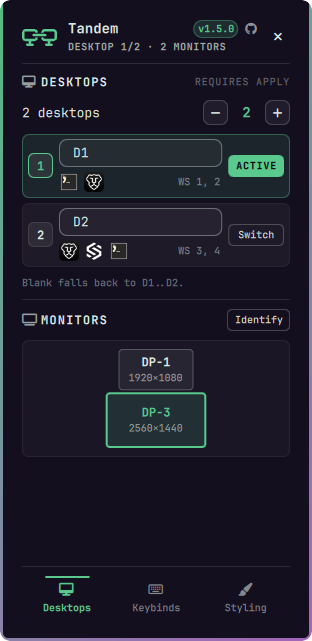
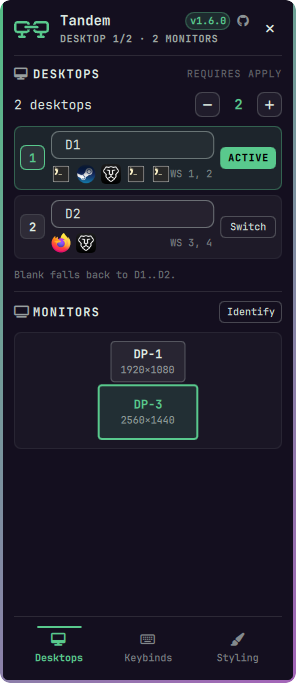
Document the accent colour; retake the screenshots

diff --git a/README.md b/README.md
@@ -104,6 +104,10 @@ everything else is a tint of the panel's own text colour.
 - **Styling** —
   - **Density** (**Compact**, **Normal** or **Roomy**) and **font size**
     (**Small**, **Normal** or **Large**).
+  - **Accent**: **Theme** (the default, the theme's own accent) or another
+    colour from the current theme's palette — blue, cyan, green, magenta,
+    yellow, red or orange, each shown in its real colour. Everything Tandem
+    highlights follows it. It is stored by name, so it follows a theme change.
   - **Bar indicator**: **Boxes** (each desktop in a rounded box, the current one
     filled with the accent) or **Text**; a switch for a thin accent-coloured
     line after the last desktop, setting it apart from the icons beside it; and
@@ -155,6 +159,7 @@ Settings.qml      the settings panel
 TandemIcon.qml    the two-monitor bar icon
 DesktopPopup.qml  the pager popup shown after a switch
 WindowIcons.qml   what is open on each desktop, and its app icons
+TandemAccent.qml  the highlight colour: theme accent or a palette colour
 body.lua          the logic, hand-maintained
 tandem-apply      generates tandem.lua from settings, installs the loader
 tandem-setup      gum wizard; writes settings, then calls tandem-apply
@@ -195,6 +200,7 @@ bar hands a widget every key on its entry except `id`:
   "divider":  false,
   "windowIcons": false,
   "clickToSwitch": true,
+  "accent": "theme",
   "popup": false }
 ```
 
@@ -220,6 +226,10 @@ bar hands a widget every key on its entry except `id`:
   `roomy` (`comfortable` is still read as `roomy`), and `small`, `normal` or
   `large`. They change nothing in Hyprland or the bar.
 - `popup` — show the pager popup after a desktop switch. Off by default.
+- `accent` — the colour Tandem highlights with: `theme` (the default) or one of
+  `blue`, `cyan`, `green`, `magenta`, `yellow`, `red`, `orange`, taken from the
+  current theme's palette. Falls back to the theme accent where the theme has
+  no such colour.
 - `indicator` — how the bar shows the desktops: `boxes` (the default) or
   `text`.
 - `divider` — draw a thin line after the last desktop in the bar. Off by
@@ -228,7 +238,7 @@ bar hands a widget every key on its entry except `id`:
   bar. Off by default.
 - `clickToSwitch` — clicking a desktop in the bar goes to it. On by default.
 
-`labels`, `mode`, `density`, `fontSize`, `popup`, `indicator`, `divider`, `windowIcons` and `clickToSwitch` are display settings that
+`labels`, `mode`, `density`, `fontSize`, `popup`, `indicator`, `divider`, `windowIcons`, `clickToSwitch` and `accent` are display settings that
 the panel and the bar widget read live from `shell.json`, so changing only
 those skips the Hyprland regenerate-and-reload and needs no shell restart.
 

diff --git a/NOTES.md b/NOTES.md
@@ -145,6 +145,16 @@ with some application rather than nothing) and pass the entry's icon to
 `Hyprland.toplevels` carries each window's `workspace`, `title` and
 `wayland.appId`.
 
+**The shell exposes only five colour roles; the rest of the palette is in
+`colors.toml`.** `Color` has foreground, background, accent, urgent and muted,
+but the current theme's `~/.local/state/omarchy/current/theme/colors.toml`
+also carries red, orange, yellow, green, cyan, blue, magenta, brown and the
+bright variants (all 22 stock themes define every one but orange, which 19
+do). `TandemAccent.qml` parses it with a watched `FileView` and re-reads
+shortly after `Color.accent` changes, since a theme switch is pushed to the
+shell rather than always touching the watched file. Store the colour by name so
+it follows the theme.
+
 **Bar clicks go to registered targets, not to the widget's own handlers.** The
 bar puts a `MouseArea` over every slot so widgets can be dragged to reorder,
 and on a click it calls `triggerPress(button)` on whichever *registered* click
